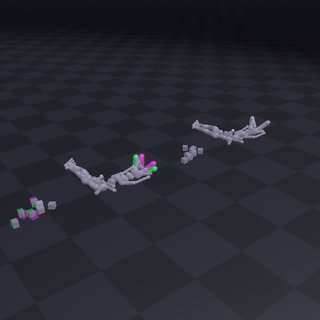
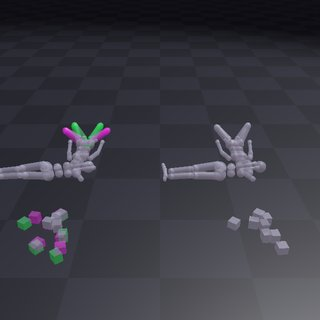
Lay out the Steel pile sides along the view direction and name them in the plots
The pile scene is long along x, so the two sides now sit along y and
the camera looks down x. Both sides fill more of the frame and the
ghosts of the default copies are easier to see. The plot names say
which side each mode is on, since the plot window is open by default.

diff --git a/newton/examples/steel/_determinism.py b/newton/examples/steel/_determinism.py
@@ -139,9 +139,9 @@ class DeterminismExample:
         """Draw both copies of each mode overlaid, the default pair left and the deterministic pair right."""
         self.viewer.begin_frame(self.sim_time)
         self.viewer.log_state(self.state_0)
-        self.viewer.log_scalar("Default copies, max divergence [mm]", 1.0e3 * self.max_divergence["default"])
+        self.viewer.log_scalar("Default (left), max divergence [mm]", 1.0e3 * self.max_divergence["default"])
         self.viewer.log_scalar(
-            "Deterministic copies, max divergence [mm]", 1.0e3 * self.max_divergence["deterministic"]
+            "Deterministic (right), max divergence [mm]", 1.0e3 * self.max_divergence["deterministic"]
         )
         self.viewer.end_frame()
 

diff --git a/newton/examples/steel/example_steel_determinism_pile.py b/newton/examples/steel/example_steel_determinism_pile.py
@@ -67,8 +67,8 @@ class Example(DeterminismExample):
                 "articulation_constraint_max": 384,
                 "free_body_constraint_max": 128,
             },
-            side_offset=(1.9, 0.0, 0.0),
-            camera={"pos": wp.vec3(0.2, -5.6, 2.2), "pitch": -18.0, "yaw": 90.0},
+            side_offset=(0.0, -1.3, 0.0),
+            camera={"pos": wp.vec3(-4.6, 0.0, 2.4), "pitch": -24.0, "yaw": 0.0},
         )
 
 
